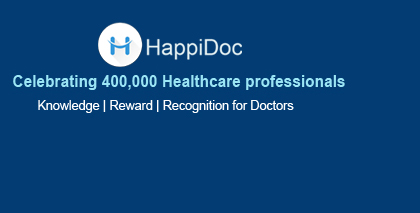
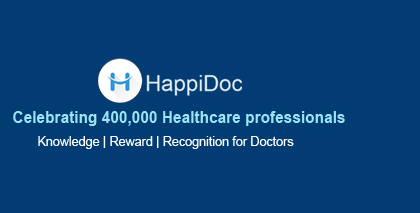
new
new

Changed region(s): [[0.031, 0.0845, 0.8357, 0.5915], [0.0929, 0.6197, 0.7119, 0.7042]]

diff --git a/style.css b/style.css
@@ -264,7 +264,7 @@ color:#0290b3;
 /*==============banner==============*/
 .banner_img{
 	background:url('img/banner_mobile.jpg') no-repeat;
-	height:120px;
+	height:240px;
  
 	margin:-20px auto;
 }
@@ -274,10 +274,11 @@ color:#0290b3;
 	border:none;
 	border-radius:5px;
 	background:#0290b3;
-	height:40px;
+	height:50px;
 	margin:10px 0 30px 0;
 	color:#fff;
 	font-size:18px;
+	padding:15px 0 0 0;
 	transition:.3s ease;
 }
 .my_btn:hover{
